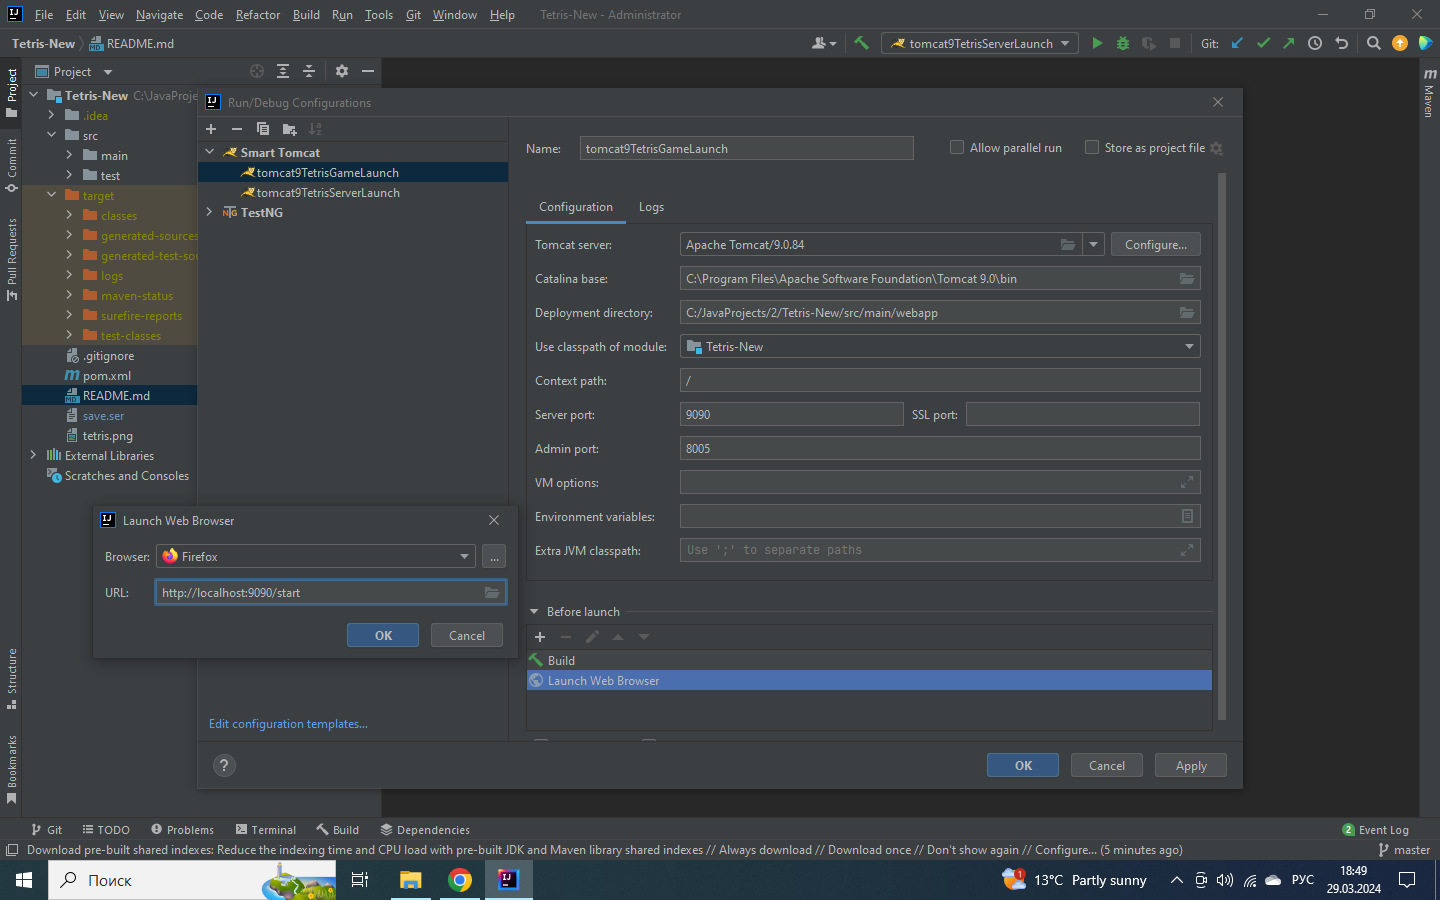
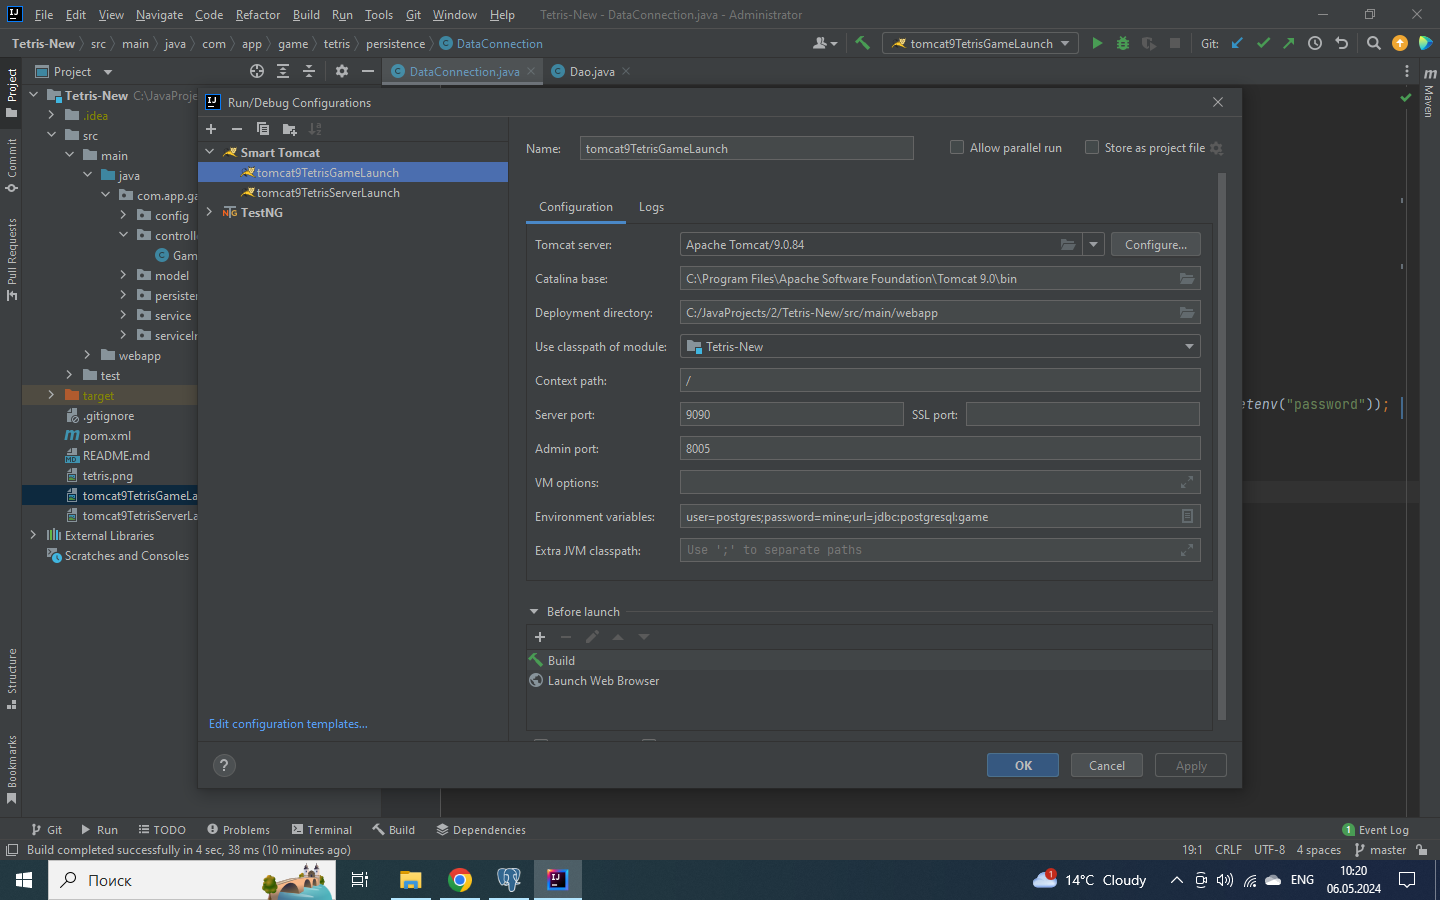
Added DB credentials to environment

diff --git a/src/main/java/com/app/game/tetris/persistence/DataConnection.java b/src/main/java/com/app/game/tetris/persistence/DataConnection.java
@@ -2,27 +2,17 @@ package com.app.game.tetris.persistence;
 
 import org.springframework.stereotype.Component;
 
-import java.io.FileReader;
-import java.io.IOException;
 import java.sql.Connection;
 import java.sql.DriverManager;
 import java.sql.SQLException;
-import java.util.Properties;
 
 @Component
 public class DataConnection {
     private Connection con;
 
     public Connection getConnection() throws SQLException {
-        String fileLocation = System.getProperty("user.dir") + "\\db_Credentials.properties";
-        Properties propertiesDB = new Properties();
-        try {
-            propertiesDB.load(new FileReader(fileLocation));
-            if (con == null)
-                con = DriverManager.getConnection(propertiesDB.getProperty("url"), propertiesDB.getProperty("user"), propertiesDB.getProperty("password"));
-        } catch (IOException e) {
-            e.printStackTrace();
-        }
+        if (con == null)
+            con = DriverManager.getConnection(System.getenv("url"), System.getenv("user"), System.getenv("password"));
         return con;
     }
 }
